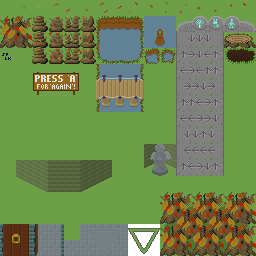
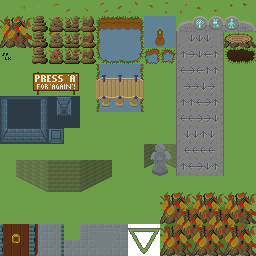
Temple interior, move the flower cluestone, and stop wind after lighting candle

Changed region(s): [[0.0, 0.375, 0.3125, 0.5625]]

diff --git a/src/game/sprite/types/sprite_wind.c b/src/game/sprite/types/sprite_wind.c
@@ -77,6 +77,17 @@ static void wind_blow(struct sprite *sprite,double elapsed) {
 }
 
 static void _wind_update(struct sprite *sprite,double elapsed) {
+
+  // If there's a candle and it's lit, stop blowing, just stay in IDLE.
+  if (SPRITE->stage==WIND_STAGE_IDLE) {
+    int i=GRP(VISIBLE)->spritec;
+    while (i-->0) {
+      struct sprite *candle=GRP(VISIBLE)->spritev[i];
+      if (candle->type!=&sprite_type_candle) continue;
+      if (sprite_candle_is_lit(candle)) return;
+    }
+  }
+
   if ((SPRITE->stageclock-=elapsed)<=0.0) {
     switch (SPRITE->stage) {
       case WIND_STAGE_IDLE: wind_begin_INHALE(sprite); break;

diff --git a/src/game/sprite/sprite.h b/src/game/sprite/sprite.h
@@ -149,6 +149,7 @@ void sprite_fireball_set_direction(struct sprite *sprite,double dx,double dy);
 void sprite_fireball_blow_out(struct sprite *sprite);
 void sprite_bonfire_set_ttl(struct sprite *sprite,double ttl);
 int sprite_candle_light(struct sprite *sprite); // 0 if invalid or already lit
+int sprite_candle_is_lit(const struct sprite *sprite);
 void sprite_missile_target_hero(struct sprite *sprite);
 void sprite_missile_launch(struct sprite *sprite,double dx,double dy);
 void sprite_lock_set_lamp(struct sprite *sprite,int index,int value);

diff --git a/src/game/sprite/types/sprite_candle.c b/src/game/sprite/types/sprite_candle.c
@@ -58,3 +58,8 @@ int sprite_candle_light(struct sprite *sprite) {
   }
   return 1;
 }
+
+int sprite_candle_is_lit(const struct sprite *sprite) {
+  if (!sprite||(sprite->type!=&sprite_type_candle)) return 0;
+  return SPRITE->lit;
+}

diff --git a/README.md b/README.md
@@ -9,8 +9,8 @@ For [GDEX Game Jam 2024](https://itch.io/jam/gdex-game-jam-2024), theme "FULL MO
 ## TODO
 
 Required:
-- [ ] Tints are broken. In web, the highlighted triangle is green. Should be yellow.
-- [ ] Temple interior.
+- [x] Tints are broken. In web, the highlighted triangle is green. Should be yellow.
+- [x] Temple interior.
 - [ ] Placeholder graphics, all over the place.
 - [ ] Don't put anything burnable on the borders.
 - [ ] Sound effects.
